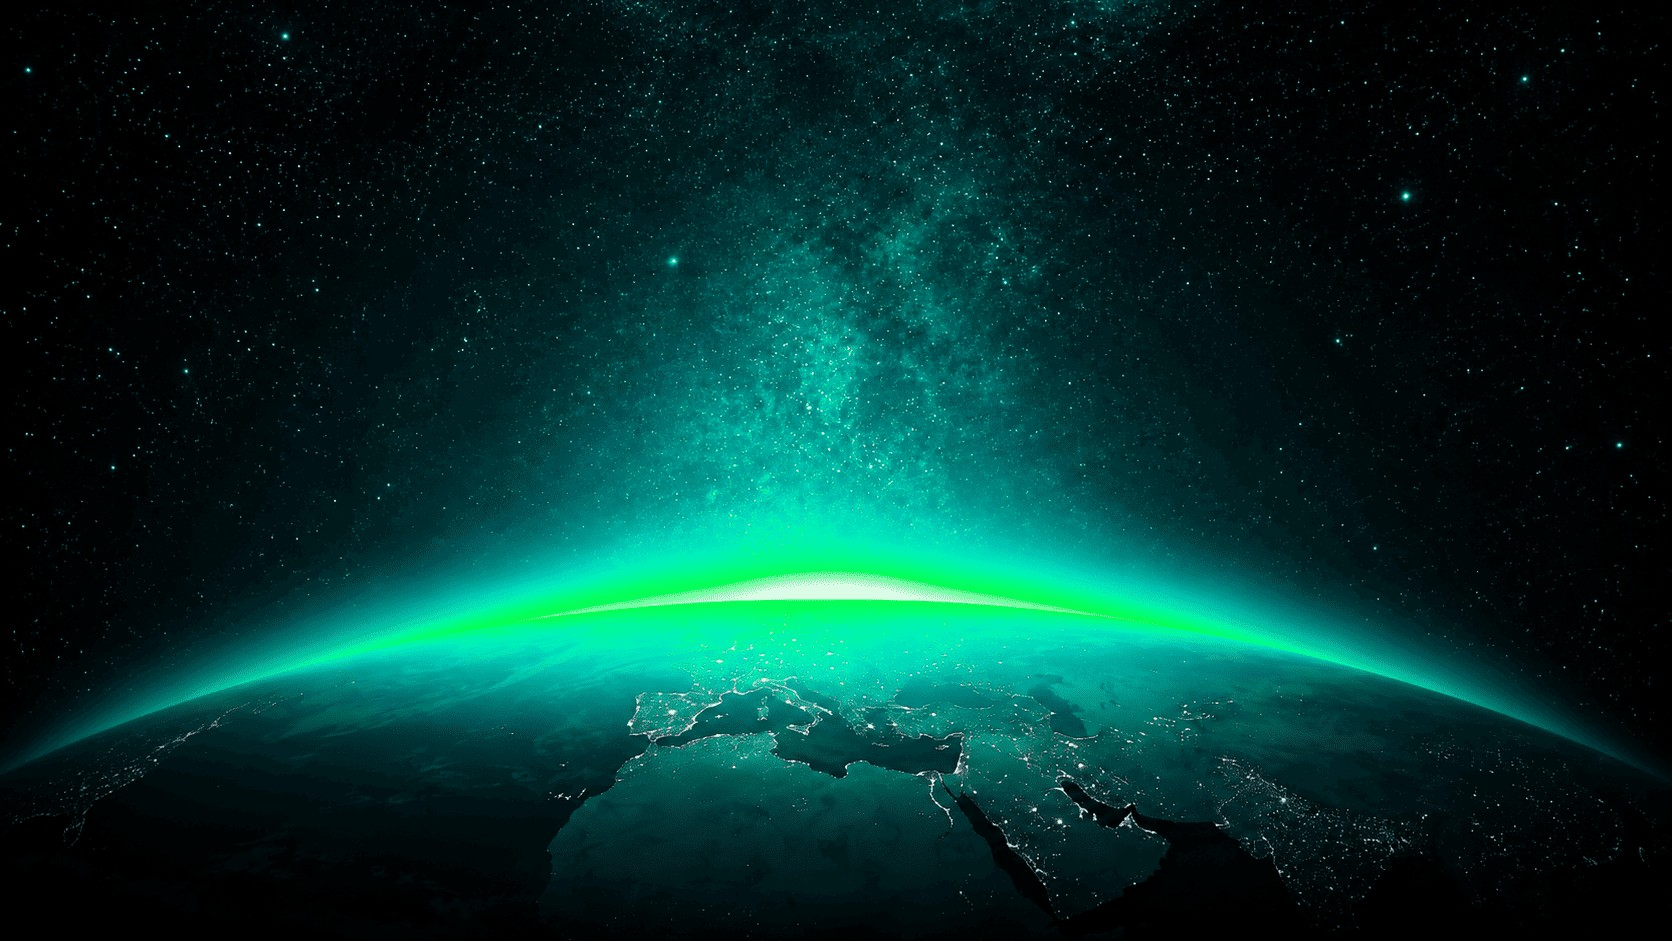
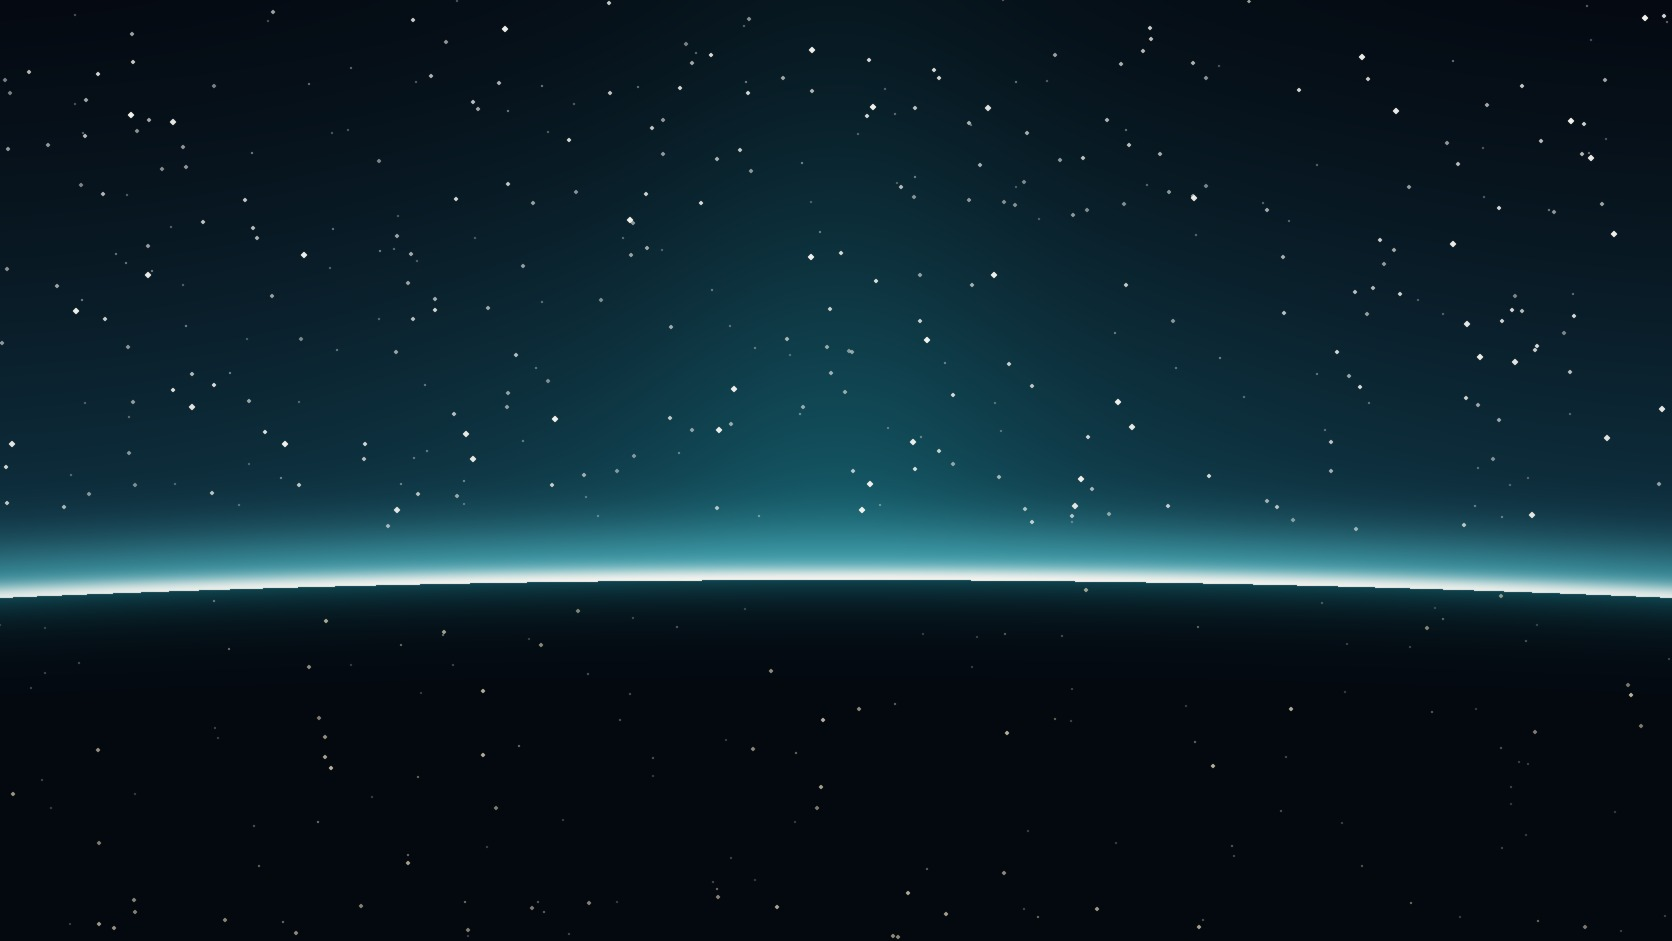
fix: make petróleo the page's dominant background per feedback
The previous pass only retinted small accents (icons, kit vars) and
left the template's original purple/gray decorative colors untouched
on cards, ticker strip, scrollbar and text selection — so the page
still read as the old palette. Petróleo (#176B78) is now the base
background across the whole page; azul-marinho becomes the
complementary surface color for cards and the bottom ticker/footer
strip, and areia is used for the small accent text/highlights, per
the brand palette image.

Also replaces the hero banner: the previous hue-rotated photo is
swapped for a procedurally generated horizon-glow graphic built
directly from the three brand colors (no photo recoloring artifacts).

Claude-Session: https://claude.ai/code/session_015EHHgCxSDSt2Bi1fKKKugj

diff --git a/assets/css/269c3875af85e786.css b/assets/css/269c3875af85e786.css
@@ -1,4 +1,4 @@
-.elementor-kit-4{--e-global-color-primary:#E8EBF0;--e-global-color-secondary:#ABAEB4;--e-global-color-text:#12233F;--e-global-color-accent:#D6EFFB;--e-global-color-0485800:#9AEBF7;--e-global-color-80c5ca4:#17171E;--e-global-color-5ed63f7:#176B78;--e-global-typography-primary-font-family:"Paralucent";--e-global-typography-primary-font-size:3.5em;--e-global-typography-primary-font-weight:500;--e-global-typography-primary-line-height:1.2em;--e-global-typography-secondary-font-family:"Paralucent";--e-global-typography-secondary-font-size:2.5em;--e-global-typography-secondary-font-weight:500;--e-global-typography-secondary-line-height:1.2em;--e-global-typography-text-font-family:"Paralucent";--e-global-typography-text-font-size:1.125em;--e-global-typography-text-font-weight:300;--e-global-typography-text-line-height:1.5em;--e-global-typography-accent-font-family:"Paralucent";--e-global-typography-accent-font-size:1.125em;--e-global-typography-accent-font-weight:600;--e-global-typography-accent-line-height:1.5em;--e-global-typography-50db2d1-font-family:"Paralucent";--e-global-typography-50db2d1-font-size:1.5em;--e-global-typography-50db2d1-font-weight:500;--e-global-typography-50db2d1-line-height:1.4em;--e-global-typography-48ae9bf-font-family:"Paralucent";--e-global-typography-48ae9bf-font-size:1.25em;--e-global-typography-48ae9bf-font-weight:300;--e-global-typography-48ae9bf-line-height:1.4em;--e-global-typography-06c1b63-font-family:"Paralucent";--e-global-typography-06c1b63-font-size:2em;--e-global-typography-06c1b63-font-weight:500;--e-global-typography-06c1b63-line-height:1.4em;--e-global-typography-8f031d0-font-family:"Plus Jakarta Sans";font-family:"Paralucent", Sans-serif;font-weight:400;background-color:#0C0C0C;}.elementor-kit-4 a{font-family:"Paralucent", Sans-serif;font-weight:300;}.elementor-kit-4 a:hover{font-family:"Paralucent", Sans-serif;font-weight:300;}.elementor-kit-4 h1{font-family:"Paralucent", Sans-serif;font-weight:400;}.elementor-kit-4 h2{font-family:"Paralucent", Sans-serif;font-weight:400;}.elementor-kit-4 h3{font-family:"Paralucent", Sans-serif;font-weight:400;}.elementor-kit-4 h4{font-family:"Paralucent", Sans-serif;font-weight:400;}.elementor-kit-4 h5{font-family:"Paralucent", Sans-serif;font-weight:400;}.elementor-kit-4 h6{font-family:"Paralucent", Sans-serif;font-weight:400;}.elementor-kit-4 button,.elementor-kit-4 input[type="button"],.elementor-kit-4 input[type="submit"],.elementor-kit-4 .elementor-button{font-family:"Exo", Sans-serif;font-weight:400;}.elementor-kit-4 label{font-family:"Paralucent", Sans-serif;font-weight:400;}.elementor-kit-4 input:not([type="button"]):not([type="submit"]),.elementor-kit-4 textarea,.elementor-kit-4 .elementor-field-textual{font-family:"Paralucent", Sans-serif;font-weight:400;}.elementor-section.elementor-section-boxed > .elementor-container{max-width:1280px;}.e-con{--container-max-width:1280px;--container-default-padding-top:7em;--container-default-padding-right:0em;--container-default-padding-bottom:7em;--container-default-padding-left:0em;}.elementor-widget:not(:last-child){margin-block-end:20px;}.elementor-element{--widgets-spacing:20px 20px;--widgets-spacing-row:20px;--widgets-spacing-column:20px;}{}h1.entry-title{display:var(--page-title-display);}.elementor-kit-4 e-page-transition{background-color:#FFBC7D;}.site-header .site-branding{flex-direction:column;align-items:stretch;}.site-header{padding-inline-end:0px;padding-inline-start:0px;}.site-header .site-title{font-family:"Exo", Sans-serif;font-weight:400;}.site-header .site-description{font-family:"Exo", Sans-serif;font-weight:400;}.site-footer .site-branding{flex-direction:column;align-items:stretch;}.site-footer .site-description{font-family:"Paralucent", Sans-serif;font-weight:400;}footer .footer-inner .site-navigation a{font-family:"Paralucent", Sans-serif;}.site-footer .copyright p{font-family:"Paralucent", Sans-serif;font-weight:400;}@media(max-width:1366px){.elementor-kit-4{--e-global-typography-primary-font-size:3.5em;--e-global-typography-primary-line-height:1.2em;--e-global-typography-secondary-font-size:2.5em;--e-global-typography-secondary-line-height:1.2em;--e-global-typography-text-font-size:1em;--e-global-typography-text-line-height:1.5em;--e-global-typography-accent-font-size:1em;--e-global-typography-accent-line-height:1.5em;--e-global-typography-50db2d1-font-size:1.5em;--e-global-typography-50db2d1-line-height:1.4em;--e-global-typography-48ae9bf-font-size:1.25em;--e-global-typography-48ae9bf-line-height:1.4em;--e-global-typography-06c1b63-font-size:2em;--e-global-typography-06c1b63-line-height:1.4em;}.elementor-section.elementor-section-boxed > .elementor-container{max-width:90%;}.e-con{--container-max-width:90%;--container-default-padding-top:7em;--container-default-padding-right:0em;--container-default-padding-bottom:7em;--container-default-padding-left:0em;}}@media(max-width:1024px){.elementor-kit-4{--e-global-typography-primary-font-size:1.875em;--e-global-typography-primary-line-height:1.1em;--e-global-typography-secondary-font-size:1.5em;--e-global-typography-secondary-line-height:1.2em;--e-global-typography-text-font-size:1.125em;--e-global-typography-text-line-height:1.3em;--e-global-typography-accent-font-size:1em;--e-global-typography-accent-line-height:1.3em;--e-global-typography-50db2d1-font-size:1.375em;--e-global-typography-50db2d1-line-height:1.3em;--e-global-typography-48ae9bf-font-size:1.125em;--e-global-typography-48ae9bf-line-height:1.3em;--e-global-typography-06c1b63-font-size:1.5em;--e-global-typography-06c1b63-line-height:1.3em;}.elementor-section.elementor-section-boxed > .elementor-container{max-width:90%;}.e-con{--container-max-width:90%;--container-default-padding-top:5em;--container-default-padding-right:0em;--container-default-padding-bottom:5em;--container-default-padding-left:0em;}}@media(max-width:767px){.elementor-kit-4{--e-global-typography-primary-font-size:8.3vw;--e-global-typography-primary-line-height:1.1em;--e-global-typography-secondary-font-size:1.5em;--e-global-typography-secondary-line-height:1.1em;--e-global-typography-text-font-size:1em;--e-global-typography-text-line-height:1.2em;--e-global-typography-accent-font-size:1em;--e-global-typography-accent-line-height:1.2em;--e-global-typography-50db2d1-font-size:1.25em;--e-global-typography-50db2d1-line-height:1.3em;--e-global-typography-48ae9bf-font-size:1em;--e-global-typography-48ae9bf-line-height:1.3em;--e-global-typography-06c1b63-font-size:1.375em;--e-global-typography-06c1b63-line-height:1.2em;}.elementor-section.elementor-section-boxed > .elementor-container{max-width:100%;}.e-con{--container-max-width:100%;--container-default-padding-top:4em;--container-default-padding-right:1.25em;--container-default-padding-bottom:4em;--container-default-padding-left:1.25em;}}@media(min-width:2400px){.elementor-kit-4{--e-global-typography-primary-font-size:3.5em;--e-global-typography-primary-line-height:1.2em;--e-global-typography-secondary-font-size:2.5em;--e-global-typography-secondary-line-height:1.2em;--e-global-typography-text-font-size:1.125em;--e-global-typography-text-line-height:1.5em;--e-global-typography-accent-font-size:1.125em;--e-global-typography-accent-line-height:1.5em;--e-global-typography-50db2d1-font-size:1.5em;--e-global-typography-50db2d1-line-height:1.4em;--e-global-typography-48ae9bf-font-size:1.25em;--e-global-typography-48ae9bf-line-height:1.4em;--e-global-typography-06c1b63-font-size:2em;--e-global-typography-06c1b63-line-height:1.4em;}.elementor-section.elementor-section-boxed > .elementor-container{max-width:1280px;}.e-con{--container-max-width:1280px;--container-default-padding-top:7em;--container-default-padding-right:0em;--container-default-padding-bottom:7em;--container-default-padding-left:0em;}}
+.elementor-kit-4{--e-global-color-primary:#E8EBF0;--e-global-color-secondary:#ABAEB4;--e-global-color-text:#176B78;--e-global-color-accent:#D6EFFB;--e-global-color-0485800:#9AEBF7;--e-global-color-80c5ca4:#17171E;--e-global-color-5ed63f7:#176B78;--e-global-typography-primary-font-family:"Paralucent";--e-global-typography-primary-font-size:3.5em;--e-global-typography-primary-font-weight:500;--e-global-typography-primary-line-height:1.2em;--e-global-typography-secondary-font-family:"Paralucent";--e-global-typography-secondary-font-size:2.5em;--e-global-typography-secondary-font-weight:500;--e-global-typography-secondary-line-height:1.2em;--e-global-typography-text-font-family:"Paralucent";--e-global-typography-text-font-size:1.125em;--e-global-typography-text-font-weight:300;--e-global-typography-text-line-height:1.5em;--e-global-typography-accent-font-family:"Paralucent";--e-global-typography-accent-font-size:1.125em;--e-global-typography-accent-font-weight:600;--e-global-typography-accent-line-height:1.5em;--e-global-typography-50db2d1-font-family:"Paralucent";--e-global-typography-50db2d1-font-size:1.5em;--e-global-typography-50db2d1-font-weight:500;--e-global-typography-50db2d1-line-height:1.4em;--e-global-typography-48ae9bf-font-family:"Paralucent";--e-global-typography-48ae9bf-font-size:1.25em;--e-global-typography-48ae9bf-font-weight:300;--e-global-typography-48ae9bf-line-height:1.4em;--e-global-typography-06c1b63-font-family:"Paralucent";--e-global-typography-06c1b63-font-size:2em;--e-global-typography-06c1b63-font-weight:500;--e-global-typography-06c1b63-line-height:1.4em;--e-global-typography-8f031d0-font-family:"Plus Jakarta Sans";font-family:"Paralucent", Sans-serif;font-weight:400;background-color:#176B78;}.elementor-kit-4 a{font-family:"Paralucent", Sans-serif;font-weight:300;}.elementor-kit-4 a:hover{font-family:"Paralucent", Sans-serif;font-weight:300;}.elementor-kit-4 h1{font-family:"Paralucent", Sans-serif;font-weight:400;}.elementor-kit-4 h2{font-family:"Paralucent", Sans-serif;font-weight:400;}.elementor-kit-4 h3{font-family:"Paralucent", Sans-serif;font-weight:400;}.elementor-kit-4 h4{font-family:"Paralucent", Sans-serif;font-weight:400;}.elementor-kit-4 h5{font-family:"Paralucent", Sans-serif;font-weight:400;}.elementor-kit-4 h6{font-family:"Paralucent", Sans-serif;font-weight:400;}.elementor-kit-4 button,.elementor-kit-4 input[type="button"],.elementor-kit-4 input[type="submit"],.elementor-kit-4 .elementor-button{font-family:"Exo", Sans-serif;font-weight:400;}.elementor-kit-4 label{font-family:"Paralucent", Sans-serif;font-weight:400;}.elementor-kit-4 input:not([type="button"]):not([type="submit"]),.elementor-kit-4 textarea,.elementor-kit-4 .elementor-field-textual{font-family:"Paralucent", Sans-serif;font-weight:400;}.elementor-section.elementor-section-boxed > .elementor-container{max-width:1280px;}.e-con{--container-max-width:1280px;--container-default-padding-top:7em;--container-default-padding-right:0em;--container-default-padding-bottom:7em;--container-default-padding-left:0em;}.elementor-widget:not(:last-child){margin-block-end:20px;}.elementor-element{--widgets-spacing:20px 20px;--widgets-spacing-row:20px;--widgets-spacing-column:20px;}{}h1.entry-title{display:var(--page-title-display);}.elementor-kit-4 e-page-transition{background-color:#FFBC7D;}.site-header .site-branding{flex-direction:column;align-items:stretch;}.site-header{padding-inline-end:0px;padding-inline-start:0px;}.site-header .site-title{font-family:"Exo", Sans-serif;font-weight:400;}.site-header .site-description{font-family:"Exo", Sans-serif;font-weight:400;}.site-footer .site-branding{flex-direction:column;align-items:stretch;}.site-footer .site-description{font-family:"Paralucent", Sans-serif;font-weight:400;}footer .footer-inner .site-navigation a{font-family:"Paralucent", Sans-serif;}.site-footer .copyright p{font-family:"Paralucent", Sans-serif;font-weight:400;}@media(max-width:1366px){.elementor-kit-4{--e-global-typography-primary-font-size:3.5em;--e-global-typography-primary-line-height:1.2em;--e-global-typography-secondary-font-size:2.5em;--e-global-typography-secondary-line-height:1.2em;--e-global-typography-text-font-size:1em;--e-global-typography-text-line-height:1.5em;--e-global-typography-accent-font-size:1em;--e-global-typography-accent-line-height:1.5em;--e-global-typography-50db2d1-font-size:1.5em;--e-global-typography-50db2d1-line-height:1.4em;--e-global-typography-48ae9bf-font-size:1.25em;--e-global-typography-48ae9bf-line-height:1.4em;--e-global-typography-06c1b63-font-size:2em;--e-global-typography-06c1b63-line-height:1.4em;}.elementor-section.elementor-section-boxed > .elementor-container{max-width:90%;}.e-con{--container-max-width:90%;--container-default-padding-top:7em;--container-default-padding-right:0em;--container-default-padding-bottom:7em;--container-default-padding-left:0em;}}@media(max-width:1024px){.elementor-kit-4{--e-global-typography-primary-font-size:1.875em;--e-global-typography-primary-line-height:1.1em;--e-global-typography-secondary-font-size:1.5em;--e-global-typography-secondary-line-height:1.2em;--e-global-typography-text-font-size:1.125em;--e-global-typography-text-line-height:1.3em;--e-global-typography-accent-font-size:1em;--e-global-typography-accent-line-height:1.3em;--e-global-typography-50db2d1-font-size:1.375em;--e-global-typography-50db2d1-line-height:1.3em;--e-global-typography-48ae9bf-font-size:1.125em;--e-global-typography-48ae9bf-line-height:1.3em;--e-global-typography-06c1b63-font-size:1.5em;--e-global-typography-06c1b63-line-height:1.3em;}.elementor-section.elementor-section-boxed > .elementor-container{max-width:90%;}.e-con{--container-max-width:90%;--container-default-padding-top:5em;--container-default-padding-right:0em;--container-default-padding-bottom:5em;--container-default-padding-left:0em;}}@media(max-width:767px){.elementor-kit-4{--e-global-typography-primary-font-size:8.3vw;--e-global-typography-primary-line-height:1.1em;--e-global-typography-secondary-font-size:1.5em;--e-global-typography-secondary-line-height:1.1em;--e-global-typography-text-font-size:1em;--e-global-typography-text-line-height:1.2em;--e-global-typography-accent-font-size:1em;--e-global-typography-accent-line-height:1.2em;--e-global-typography-50db2d1-font-size:1.25em;--e-global-typography-50db2d1-line-height:1.3em;--e-global-typography-48ae9bf-font-size:1em;--e-global-typography-48ae9bf-line-height:1.3em;--e-global-typography-06c1b63-font-size:1.375em;--e-global-typography-06c1b63-line-height:1.2em;}.elementor-section.elementor-section-boxed > .elementor-container{max-width:100%;}.e-con{--container-max-width:100%;--container-default-padding-top:4em;--container-default-padding-right:1.25em;--container-default-padding-bottom:4em;--container-default-padding-left:1.25em;}}@media(min-width:2400px){.elementor-kit-4{--e-global-typography-primary-font-size:3.5em;--e-global-typography-primary-line-height:1.2em;--e-global-typography-secondary-font-size:2.5em;--e-global-typography-secondary-line-height:1.2em;--e-global-typography-text-font-size:1.125em;--e-global-typography-text-line-height:1.5em;--e-global-typography-accent-font-size:1.125em;--e-global-typography-accent-line-height:1.5em;--e-global-typography-50db2d1-font-size:1.5em;--e-global-typography-50db2d1-line-height:1.4em;--e-global-typography-48ae9bf-font-size:1.25em;--e-global-typography-48ae9bf-line-height:1.4em;--e-global-typography-06c1b63-font-size:2em;--e-global-typography-06c1b63-line-height:1.4em;}.elementor-section.elementor-section-boxed > .elementor-container{max-width:1280px;}.e-con{--container-max-width:1280px;--container-default-padding-top:7em;--container-default-padding-right:0em;--container-default-padding-bottom:7em;--container-default-padding-left:0em;}}
 /* Start Custom Fonts CSS */@font-face {
 	font-family: 'Paralucent';
 	font-style: normal;

diff --git a/assets/css/a5a1a75965161b67.css b/assets/css/a5a1a75965161b67.css
@@ -8,12 +8,12 @@
 
 
 .elementor-3634 .elementor-element.elementor-element-96e56c5{
-    background: linear-gradient(145deg, rgba(23,21,58,.55) 0%, rgba(13,11,31,.92) 100%);
+    background: linear-gradient(145deg, rgba(24,42,74,.55) 0%, rgba(8,16,30,.92) 100%);
 }
 
 @media(max-width:1024px){
     .elementor-3634 .elementor-element.elementor-element-96e56c5{
-    background: linear-gradient(145deg, rgba(23,21,58,.55) 0%, rgba(13,11,31,.92) 100%);
+    background: linear-gradient(145deg, rgba(24,42,74,.55) 0%, rgba(8,16,30,.92) 100%);
 }
 }/* End custom CSS */
 /* Start custom CSS for icon-box, class: .elementor-element-bba4162 */.elementor-3634 .elementor-element.elementor-element-bba4162 svg {
@@ -24,14 +24,14 @@
 
 
 .elementor-3634 .elementor-element.elementor-element-bba4162{
-    background: linear-gradient(145deg, rgba(23,21,58,.55) 0%, rgba(13,11,31,.92) 100%);
+    background: linear-gradient(145deg, rgba(24,42,74,.55) 0%, rgba(8,16,30,.92) 100%);
 }
 
 
 
 @media(max-width:1024px){
     .elementor-3634 .elementor-element.elementor-element-bba4162{
-    background: linear-gradient(145deg, rgba(23,21,58,.55) 0%, rgba(13,11,31,.92) 100%);
+    background: linear-gradient(145deg, rgba(24,42,74,.55) 0%, rgba(8,16,30,.92) 100%);
 }
 }/* End custom CSS */
 /* Start custom CSS for icon-box, class: .elementor-element-ab2f37f */.elementor-3634 .elementor-element.elementor-element-ab2f37f svg {
@@ -40,14 +40,14 @@
 
 
 .elementor-3634 .elementor-element.elementor-element-ab2f37f{
-    background: linear-gradient(145deg, rgba(23,21,58,.55) 0%, rgba(13,11,31,.92) 100%);
+    background: linear-gradient(145deg, rgba(24,42,74,.55) 0%, rgba(8,16,30,.92) 100%);
 }
 
 
 
 @media(max-width:1024px){
     .elementor-3634 .elementor-element.elementor-element-ab2f37f{
-    background: linear-gradient(145deg, rgba(23,21,58,.55) 0%, rgba(13,11,31,.92) 100%);
+    background: linear-gradient(145deg, rgba(24,42,74,.55) 0%, rgba(8,16,30,.92) 100%);
 }
 }/* End custom CSS */
 /* Start custom CSS for icon-box, class: .elementor-element-3cd9fe5 */.elementor-3634 .elementor-element.elementor-element-3cd9fe5 svg {
@@ -57,14 +57,14 @@
 
 
 .elementor-3634 .elementor-element.elementor-element-3cd9fe5{
-    background: linear-gradient(145deg, rgba(23,21,58,.55) 0%, rgba(13,11,31,.92) 100%);
+    background: linear-gradient(145deg, rgba(24,42,74,.55) 0%, rgba(8,16,30,.92) 100%);
 }
 
 
 
 @media(max-width:1024px){
     .elementor-3634 .elementor-element.elementor-element-3cd9fe5{
-    background: linear-gradient(145deg, rgba(23,21,58,.55) 0%, rgba(13,11,31,.92) 100%);
+    background: linear-gradient(145deg, rgba(24,42,74,.55) 0%, rgba(8,16,30,.92) 100%);
 }
 }/* End custom CSS */
 /* Start custom CSS for icon-box, class: .elementor-element-fe42ff8 */.elementor-3634 .elementor-element.elementor-element-fe42ff8 svg {
@@ -76,7 +76,7 @@
 
 
 .elementor-3634 .elementor-element.elementor-element-fe42ff8{
-    background: linear-gradient(145deg, rgba(23,21,58,.55) 0%, rgba(13,11,31,.92) 100%);
+    background: linear-gradient(145deg, rgba(24,42,74,.55) 0%, rgba(8,16,30,.92) 100%);
 }
 
 
@@ -84,7 +84,7 @@
 
 @media(max-width:1024px){
     .elementor-3634 .elementor-element.elementor-element-fe42ff8{
-    background: linear-gradient(145deg, rgba(23,21,58,.55) 0%, rgba(13,11,31,.92) 100%);
+    background: linear-gradient(145deg, rgba(24,42,74,.55) 0%, rgba(8,16,30,.92) 100%);
 }
 }/* End custom CSS */
 /* Start custom CSS for container, class: .elementor-element-cdd2650 */.elementor-3634 .elementor-element.elementor-element-cdd2650:before{
@@ -95,7 +95,7 @@
     transform: translate(-50%, -50%);
     width: 800px;
     height: 800px;
-    background: #1d1a3890;
+    background: rgba(245,243,238,0.18);
     border-radius: 100%;
     filter: blur(180px);
     z-index: -1;
@@ -142,14 +142,14 @@
 
 
 .card2:before{
-    background: radial-gradient(800px circle at var(--mouse-x) var(--mouse-y), #2D307750, transparent 40%);
+    background: radial-gradient(800px circle at var(--mouse-x) var(--mouse-y), rgba(245,243,238,0.35), transparent 40%);
     mix-blend-mode: screen;
     z-index: 6;
    
 }
 
 .card2:after{
-    background: radial-gradient(400px circle at var(--mouse-x) var(--mouse-y), #9AEBF790, transparent 40%)!important;
+    background: radial-gradient(400px circle at var(--mouse-x) var(--mouse-y), rgba(116,166,174,0.56), transparent 40%)!important;
     z-index: -1;
     
 }   
@@ -287,7 +287,7 @@
     
 }/* End custom CSS */
 /* Start custom CSS for container, class: .elementor-element-cef0848 */.elementor-3634 .elementor-element.elementor-element-cef0848{
-    background: linear-gradient(to left, #1A1D24, #24262C);
+    background: linear-gradient(to left, #0B1830, #17325C);
 }/* End custom CSS */
 /* Start custom CSS for image-box, class: .elementor-element-0f2e550 */@media(max-width:364px){
     .elementor-3634 .elementor-element.elementor-element-0f2e550{
@@ -2082,13 +2082,13 @@ body::-webkit-scrollbar{
 }
 
 body::-webkit-scrollbar-track{
-    background: #17171E;
+    background: #0d1830;
 }
 
 body::-webkit-scrollbar-thumb{
-    background: #2C35FF;
+    background: #176B78;
     border-radius: 10px;
-    border: 2px solid #17171E;
+    border: 2px solid #0d1830;
 }
 
 
@@ -2128,9 +2128,9 @@ P{
 
 /*personalizando a seleÃ§Ã£o padrÃ£o*/
 *::selection{
-    color: #DEE1E6;
-    background: #2C35FF;
-    -webkit-text-fill-color: #DEE1E6;
+    color: #F5F3EE;
+    background: #176B78;
+    -webkit-text-fill-color: #F5F3EE;
 }
 
 @media(max-width: 1024px){
@@ -2213,9 +2213,9 @@ P{
 
 
 .destaque {
-    border: 1px solid #ABAEB4;
-    color: #ABAEB4;
-    font-size: 14px; 
+    border: 1px solid rgba(245,243,238,.55);
+    color: #F5F3EE;
+    font-size: 14px;
     padding: 6px 30px 4px 30px;
     border-radius: 100px;
     display: inline-block;

diff --git a/index.html b/index.html
@@ -390,7 +390,7 @@ var pysFacebookRest = {"restApiUrl":"#","debug":""};
 				</div>
 				</div>
             
-            <footer style="text-align:center;padding:20px;font-size:14px;color:#abaeb4;">© 2026 Goted — Todos os direitos reservados</footer>
+            <footer style="text-align:center;padding:20px;font-size:14px;color:rgba(245,243,238,.75);">© 2026 Goted — Todos os direitos reservados</footer>
 		<script type="speculationrules">
 {"prefetch":[{"source":"document","where":{"and":[{"href_matches":"/*"},{"not":{"href_matches":["/wp-*.php","/wp-admin/*","/wp-content/uploads/*","/wp-content/*","/wp-content/plugins/*","/wp-content/themes/hello-elementor/*","/*\\?(.+)"]}},{"not":{"selector_matches":"a[rel~=\"nofollow\"]"}},{"not":{"selector_matches":".no-prefetch, .no-prefetch a"}}]},"eagerness":"conservative"}]}
 </script>
